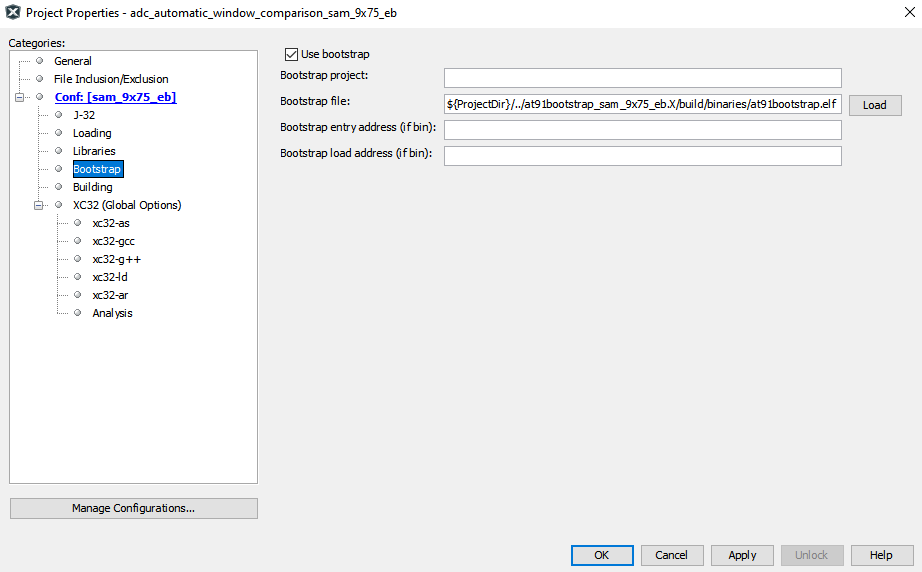
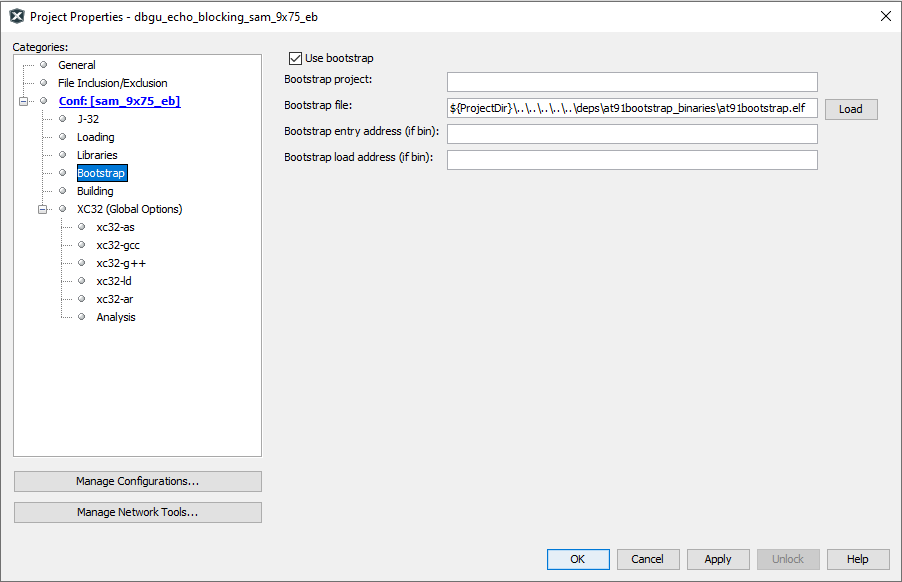
[Docs] Add common at91bootstrap documentation for csp_apps_sam_9x7
MH3-80868

Changed region(s): [[0.0, 0.0, 1.0, 1.0], [0.0, 0.9808, 0.031, 1.0]]

diff --git a/apps/docs/readme_bootstrap.md b/apps/docs/readme_bootstrap.md
@@ -1,51 +1,32 @@
 ---
-title: Bootstrapping MPU applications using At91bootstrap loader
+title: Using at91boostrap loader with Harmony3 MPU applications
 nav_order: 2
 has_children: false
 has_toc: false
 ---
 [![MCHP](https://www.microchip.com/ResourcePackages/Microchip/assets/dist/images/logo.png)](https://www.microchip.com)
 
-# Bootstrapping MPU applications using At91bootstrap loader
+# Using at91boostrap loader with Harmony3 MPU applications
 
-MPU applications are linked to execute from external DRAM memory that is available on the evaluation kit. This require all peripherals and clock leading to the DRAM memory to be configured prior to the application being programmed. This is done using a bootstrap loader.
+MPU harmony3 applications are compiled and linked to execute from external DRAM memory that is available on the corresponding evaluation kit. This require all peripherals and clock leading to the DRAM memory to be configured prior to the application being programmed into DRAM. This is achieved using a bootstrap loader. We use [AT91bootstrap](https://github.com/linux4sam/at91bootstrap) loader for this purpose.
 
-Bootstrap loader project used for this purpose is a variant of the AT91Bootstrap project available for Microchip MPUs. It can be downloaded from [here](https://github.com/linux4sam/at91bootstrap/tree/at91bootstrap-3.x-mplabx). This project is adapted to be used from within MPLABx IDE on both Windows and Linux.
+We have deployed the following pre-built bootstrap binaries inside our application repositories. They can be found under deps folder at the root of the repository.
 
-To facilitate the debugging and running of the MPU application, each application in this repository is bundled with its own copy of the AT91Bootstrap project. Each copy of the bootstrap project can be found under same folder as the application project and is named and is prefixed with "at91bootstrap_". For eg: if the application folder name is sam_9x75_eb.X, then bootstrap project folder will be named at91bootstrap_sam_9x75_eb.X and will be present at the same folder level.
+| Binary Name      | Description                                    |
+| ---------------- | ---------------------------------------------- |
+| at91bootstrap.elf | Bootstrap which allows debug or run application using MPLABx |
+| boot.bin  | Bootstrap which allows booting application using an SD Card |
 
-Bootstrap project is configured to load and execute a raw binary file named "harmony.bin" from the SD card. SD card slot to be used shall vary with the evaluation kit.
-
-Each application project is configured with a post build step which will generate the necessary binary file named "harmony.bin" at the end of each build.
-
-If you are only interested in running or debugging the MPU applications in this repository , you can skip the following sections and  and jump straight to [Debugging MPU application using MPLABx](#debugging-mpu-applications-using-mplabx). Each copy of the bootstrap project in this repository is preconfigured to the correct evaluation kit.Also, the bootstrap binary files required to program and run the  applications are checked into the repository.
-
-## Building AT91Bootstrap project
-
-- Bootstrap project can be configured using MPLABx using its KCONFIG menu. To do this, open the project in MPLABx, right click on the project and select  "properties". In categories, select "Kconfig" as shown below:
-
-    ![kconfig](images/kconfig.png)
-
-- Click on "LOAD" button and navigate to the boards folder inside the project. Choose the a  default configuration file (defconfig) config file to select a target evaluation board and boot method
-  - For eg: If you want to boot harmony.bin file from sd card for SAM9X75 evaluation board, navigate to configs folder and select "sam9x7ebsd_harmony_defconfig" file
-
-- Click on "Apply" and "OK" buttons to configure the project
-
-- Build the project to generate the bootstrap binaries
-
-- *Note: At91bootstrap project requires arm-gcc to build it. XC32 toolchain is not supported yet*
-
-## Configure MPLABx application to use AT91Bootstrap loader
-
-MPLABx debugger relies on AT91Bootstrap to configure the board before programming the application binaries. To configure an application to use AT91Bootstrap, follow the steps detailed below:
+To use at91boostrap to load and run harmony applications from MPLABx, it should be build with "bkpt_none_defconfig" configuration. If you are intrested in building at91bootstrap using MPLABx, you can read about it [here](readme_bootstrap_build.md).
 
 ### Configure a debug tool
 
+- Open the MPLABx applicaton that you want to debug or run in MPLABx.
 - Right click on the application project and select properties. This will open the properties window. In the configuration option --> connected hardware tools, select the debugger.
 
     ![select_debugger](images/select_debug.png)
 
-    *Note: if no debugger is connected, click on the "show all" check box and select the supported debugger. Only Jlink options are supported*
+    *Note: if no debugger is connected, click on the "show all" check box and select the supported debugger*
 
 - Select the target toolchain and click on apply to save the changes
 
@@ -59,31 +40,24 @@ MPLABx debugger relies on AT91Bootstrap to configure the board before programmin
 
 - Click on the "LOAD" button to load the bootstrap file. This will open a file picker, which allows you to choose the bootstrap binary file.
 
-- Navigate to the "binaries" folder under the AT91Bootstrap project folder. This contains the build output of the  bootstrap project. You can either choose the "AT91Bootstrap.elf" file or "boot.bin" file
-  - If ELF file is choosen, the "Bootstrap entry address" and the "Bootstrap load address" text box can be left empty as this information can be read from the ELF file
-  - If BIN file is chosen, the bootstrap entry address and the load address should be filled in their corresponding text boxes
-  - An example configuration can be seen below. Here a relative path is used with respect to the project directory, to make the configuration portable
+- Navigate to the {repository root}/deps/{board name}/at91bootstrap_binaries folder as explained in the previous section. You should choose "at91bootstrap.elf" file (The "Bootstrap entry address" and the "Bootstrap load address" text box can be left empty as this information will be read from the ELF file automatically)
 
-      ![configured_bootstrap](images/configured_bootstrap.png)
+    ![configured_bootstrap](images/configured_bootstrap.png)
 
-## Debugging MPU applications using MPLABx
+## Run/Debug MPU applications using MPLABx
 
-Once the applicaton is configured to use bootstrap loader, debugging the application is as simple right clicking the application and selecting "Debug" option. This will cause debugger to perform a two stage loading:
+You can now Run/Debug the MPU application just like any other MPLABx applications. When executed, MPLABx performs a two stage loading:
 
 **Stage 1:** Loads the bootstrap loader into the internal SRAM and executes it. This will configure the board specific peripherals and memory
 
 **Stage 2:** Loads the application into the external DRAM and debugs it. User can perform actions like setting breakpoints, single-stepping etc.
 
-Debugging the applicaton using MPLABx has the following limitations:
+When using MPLABx to debug a harmony application, you will face the following limitations:
 
-1. Running application using debugger is not supported
-2. Call stack is not supported
-3. Step in, step out using debugger does not work
+- Call stack is not fully supported yet, hence stepping in and out of functions may not work correctly.
 
-*Note:* Make sure that you reset the board between each debug sessions so that the debugger can attach to the target correctly
+## Boot to application using SD card
 
-## Running MPU applications
-
-To run the applications, copy both the application binary named "harmony.bin" and the bootstrap binary named "boot.bin" onto an SD card. Insert the SD card into the SD slot of the evaluation kit and press the reset button.
+Copy both the application binary named "harmony.bin" and the bootstrap binary named "boot.bin" onto an SD card. Insert the SD card into the SD slot of the evaluation kit and press the reset button.
 
 The ROM bootloader will copy the bootstrap binary "boot.bin" into the internal SRAM and executes it. The bootstrap will configure the external DRAM and the required peripherals, then copy the applicaton binary "harmony.bin" into the DRAM and executes it.

diff --git a/apps/docs/readme_bootstrap_build.md b/apps/docs/readme_bootstrap_build.md
@@ -1,0 +1,65 @@
+---
+title: Building AT91Bootstrap project using MPLABx
+nav_order: 2
+has_children: false
+has_toc: false
+---
+[![MCHP](https://www.microchip.com/ResourcePackages/Microchip/assets/dist/images/logo.png)](https://www.microchip.com)
+
+
+# Building AT91Bootstrap project using MPLABx
+
+- Open a console and execute the following command to clone at91bootstrap repository into a directory named at91bootstrap.X
+
+    ```bash
+    git clone https://github.com/linux4sam/at91bootstrap at91bootstrap.X
+    ```
+- Open at91bootstrap.X directory as project in MPLABx
+
+## Configure compiler
+
+- Open project properties window, and choose "Makefile" option to configure the compiler:
+
+    ![](images/properties_makefile.png)
+
+- Default option is configured to to use ARM gcc. To use xc32, replace all instances of arm-none-eabi- to xc32- as follows
+
+    ![](images/properties_makefile_xc32.png)
+
+*NOTE: For the build to be successful, the configured compiler should be available in the system path*
+
+## Configure target
+
+- Open project properties window, and choose "Kconfig" option to configure the build target:
+
+    ![](images/properties_kconfig.png)
+
+- Click on "LOAD" button and navigate to the configs folder inside at91bootstrap.X directory. You need to choose the default configuration file(defconfig) based on what you need the at91boostrap to do
+
+  **Debug/Run application from within MPLABx**
+
+  - Load *{evaluation_kit}_bkpt_none_defconfig*. For example, on SAM9X75 Evaluation Board, select **sam9x75eb_bkptnone_defconfig** as the configuration file
+
+  - Click on "Apply" and "OK" buttons to configure the project
+
+    ![](images/properties_kconfig_bkpt_none.png)
+
+  - You can see that the MPU product is now selected as "SAM9X7" and the primary operation is selected as "Configure and Stop"
+
+  **Load and Run application from an SD card**
+
+  - Load *{evaluation_kit}sd_uboot_defconfig*. For example, on SAM9X75 Evaluation Kit, select **sam9x75ebsd_uboot_defconfig** as the configuration file
+
+  - Click on "Apply" and "OK" buttons to configure the project
+
+    ![](images/properties_kconfig_sd_boot.png)
+
+  - You can see that the MPU product is now selected as "SAM9X7" and the primary operation is selected as "Load and launch next software"
+
+  - Edit the Option "Next Software Image File Name" from *u-boot.bin* to *harmony.bin*
+
+    ![](images/properties_kconfig_sd_boot_harmony.png)
+
+## Build target
+
+Once the target configuration is applied in the properties window, you can build the at91boostrap just like any other MPLABx project. After the build is complete, you can find the generated binary files under build/binaries directory.
